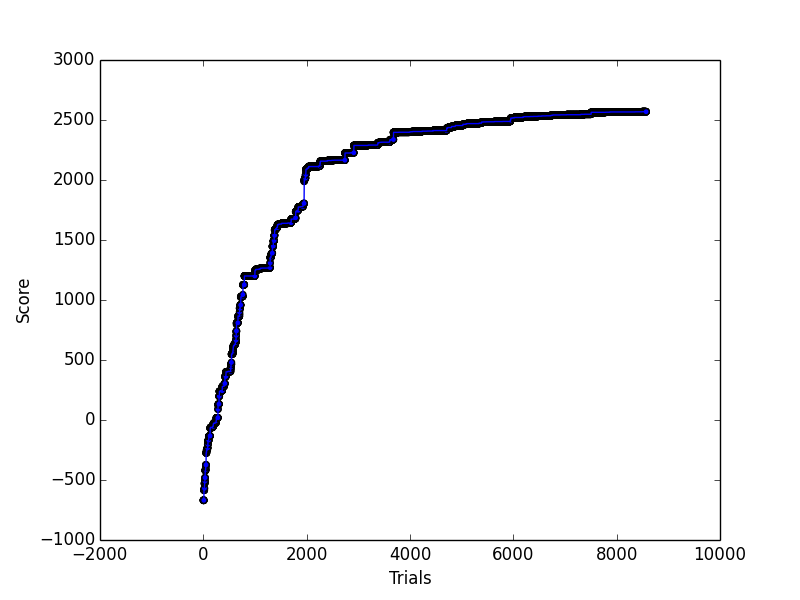
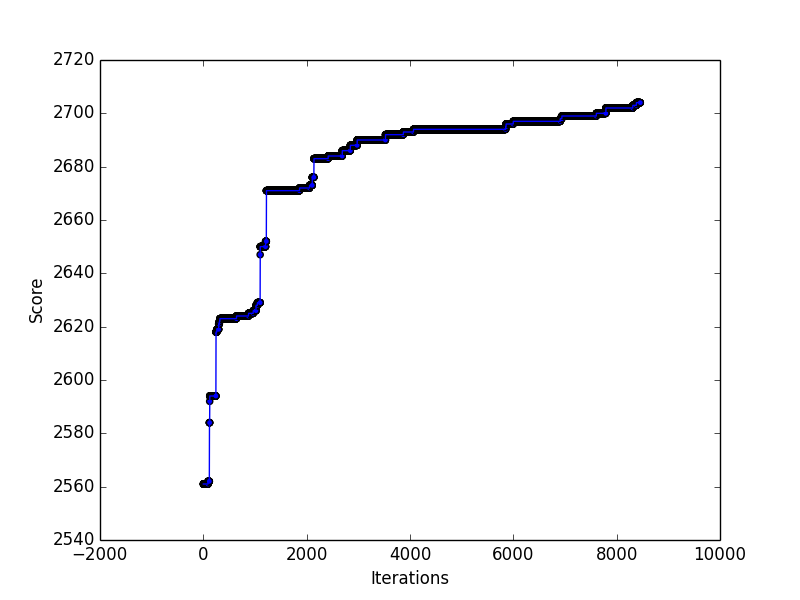
plottekes

diff --git a/poging2.py b/poging2.py
@@ -19,7 +19,8 @@ def hilclimbing():
     # sla het allereerste aantal punten van het rooster op.
     starting_score = scoringsfunctie(schedule,courses)
     # starting schedule is het rooster die we kunnen aanpassen.
-    starting_schedule = copy.deepcopy(schedule)
+    starting_schedule = {'B0.201': [['Zoeken sturen en bewegen practica 3', 'Technology for games werkgroep 2', 'Reflectie op de digitale cultuur werkgroep 1', 'Software engineering practica 2'], ['Webprogrammeren en databases hoorcollege 2', 'Heuristieken 2 hoorcollege 1', 'Data Mining practica 2', 'Data Mining practica 1'], ['Technology for games hoorcollege 2', 'Zoeken sturen en bewegen practica 1', 'Collectieve Intelligentie werkgroep 4', 'Bioinformatica practica 2'], ['Compilerbouw werkgroep 2', 'Data Mining hoorcollege 1', 'Bioinformatica hoorcollege 1', 'Databases 2 werkgroep 1'], ['Data Mining hoorcollege 2', 'Moderne Databases werkgroep 1', 'Algoritmen en complexiteit hoorcollege 1', 'Technology for games hoorcollege 1']], 'A1.08': [['Collectieve Intelligentie practica 1', 'Informatie- en organisatieontwerp practica 1', 'Collectieve Intelligentie practica 2', 'Informatie- en organisatieontwerp practica 2'], ['Technology for games werkgroep 1', 'Project Numerical Recipes practica 2', 'Programmeren in Java 2 practica 1', 'Project Genetic Algorithms practica 3'], ['Collectieve Intelligentie werkgroep 1', 'Reflectie op de digitale cultuur werkgroep 3', 'Moderne Databases practica 3', 'Webprogrammeren en databases practica 1'], ['Reflectie op de digitale cultuur werkgroep 2', 'Netwerken en systeembeveiliging practica 3', 'Informatie- en organisatieontwerp hoorcollege 1', 'Autonomous Agents 2 werkgroep 1'], ['Autonomous Agents 2 practica 2', 'Advanced Heuristics hoorcollege 1', 'Informatie- en organisatieontwerp werkgroep 1', 'Autonomous Agents 2 practica 3']], 'C0.110': [['Databases 2 hoorcollege 1', 'Bioinformatica hoorcollege 2', 'Algoritmen en complexiteit werkgroep 2', 'Data Mining werkgroep 1'], ['Compilerbouw hoorcollege 1', 'Zoeken sturen en bewegen practica 2', 'Collectieve Intelligentie hoorcollege 1', 'Calculus 2 hoorcollege 1'], ['Software engineering hoorcollege 1', 'Collectieve Intelligentie werkgroep 2', 'Kansrekenen 2 hoorcollege 1', 'Algoritmen en complexiteit practica 1'], ['Compilerbouw werkgroep 1', 'Collectieve Intelligentie hoorcollege 2', 'Lineaire Algebra hoorcollege 1', 'Kansrekenen 2 hoorcollege 2'], ['Compilerbouw hoorcollege 2', 'Collectieve Intelligentie hoorcollege 3', 'Webprogrammeren en databases werkgroep 1', 'Software engineering werkgroep 1']], 'A1.04': [['Machine Learning hoorcollege 1', 'Algoritmen en complexiteit werkgroep 1', 'Compilerbouw practica 2', 'Heuristieken 1 werkgroep 1'], ['Autonomous Agents 2 hoorcollege 2', 'Interactie-ontwerp hoorcollege 1', 'Project Genetic Algorithms practica 1', 'Netwerken en systeembeveiliging practica 2'], ['Netwerken en systeembeveiliging practica 4', 'Moderne Databases practica 1', 'Project Genetic Algorithms practica 2', 'Bioinformatica practica 1'], ['Webprogrammeren en databases hoorcollege 1', 'Autonomous Agents 2 werkgroep 3', 'Project Numerical Recipes practica 3', 'Databases 2 werkgroep 2'], ['Software engineering werkgroep 2', 'Webprogrammeren en databases werkgroep 2', 'Moderne Databases werkgroep 2', 'Calculus 2 werkgroep 3']], 'A1.06': [['Data Mining werkgroep 2', 'Webprogrammeren en databases practica 2', 'Data Mining werkgroep 3', 'Collectieve Intelligentie practica 3'], ['Netwerken en systeembeveiliging practica 1', 'Architectuur en computerorganisatie hoorcollege 2', 'Advanced Heuristics practica 2', 'Project Numerical Recipes practica 1'], ['Moderne Databases practica 2', 'Collectieve Intelligentie werkgroep 3', 'Programmeren in Java 2 practica 3', 'Programmeren in Java 2 practica 2'], ['', '', '', 'Autonomous Agents 2 werkgroep 2'], ['Moderne Databases werkgroep 3', 'Informatie- en organisatieontwerp werkgroep 2', 'Interactie-ontwerp hoorcollege 2', 'Architectuur en computerorganisatie hoorcollege 1']], 'C1.112': [['Software engineering practica 1', 'Reflectie op de digitale cultuur hoorcollege 2', 'Lineaire Algebra hoorcollege 2', 'Compilerbouw practica 1'], ['Advanced Heuristics practica 1', 'Bioinformatica werkgroep 3', '', 'Informatie- en organisatieontwerp hoorcollege 2'], ['', 'practicum_compilerbouw practica 1', '', 'Algoritmen en complexiteit practica 2'], ['Heuristieken 1 hoorcollege 1', 'Analysemethoden en -technieken hoorcollege 1', '', 'practicum_compilerbouw practica 2'], ['Autonomous Agents 2 practica 1', 'Heuristieken 2 werkgroep 1', 'Bioinformatica hoorcollege 3', 'Heuristieken 2 werkgroep 2']], 'A1.10': [['Heuristieken 1 werkgroep 2', 'Autonomous Agents 2 hoorcollege 1', 'Moderne Databases hoorcollege 1', 'Collectieve Intelligentie practica 4'], ['Data Mining practica 3', '', 'Bioinformatica werkgroep 1', 'Bioinformatica werkgroep 2'], ['Bioinformatica practica 3', 'Programmeren in Java 2 practica 4', 'practicum_compilerbouw practica 3', ''], ['', 'practicum_compilerbouw practica 4', 'Machine Learning hoorcollege 2', ''], ['Calculus 2 werkgroep 2', '', 'Reflectie op de digitale cultuur hoorcollege 1', 'Calculus 2 werkgroep 1']]}
+
     scoring_schedule = scoringsfunctie(starting_schedule, courses)
 
     lists = hoofd_main()
@@ -88,14 +89,14 @@ def hilclimbing():
                                     lijst_scores.append(high_score)
                                     amount_of_hiscores += 1
                                     #print amount_of_hiscores
-                                    if amount_of_hiscores == 1000:
-                                        #x = np.arange(0,len(lijst_scores),1)
-                                        #plt.scatter(x, lijst_scores)
-                                        #plt.plot(x,lijst_scores)
-                                        #xlabel('Trials')
-                                        #ylabel('Score')
-                                        #plt.savefig("hillclimbing2")
-
+                                    if amount_of_hiscores == 5000:
+                                        x = np.arange(0,len(lijst_scores),1)
+                                        plt.scatter(x, lijst_scores)
+                                        plt.plot(x,lijst_scores)
+                                        xlabel('Trials')
+                                        ylabel('Score')
+                                        plt.savefig("hillclimbing2")
+                                        print "highscore is", high_score
                                         return starting_score, high_score, starting_schedule
 
                         hour = hour + 1
@@ -105,14 +106,14 @@ def hilclimbing():
                 hour = 0
                 day = 0
 
-    #x = np.arange(0,len(lijst_scores),1)
+    x = np.arange(0,len(lijst_scores),1)
 
-    #plt.scatter(x, lijst_scores)
+    plt.scatter(x, lijst_scores)
 
-    #xlabel('Trials')
-    #ylabel('Score')
-    #plt.plot(x, lijst_scores)
-    #plt.savefig("hillclimbing2")
+    xlabel('Iterations')
+    ylabel('Score')
+    plt.plot(x, lijst_scores)
+    plt.savefig("hillclimbing2")
 
     return starting_score, high_score, starting_schedule
 

diff --git a/simulated_annealing.py b/simulated_annealing.py
@@ -5,6 +5,8 @@ from scoringsfunctie import *
 from random_algorithm import *
 from main import *
 from visualize import *
+from matplotlib.pyplot import plot, title, xlabel, ylabel, savefig
+
 
 import copy
 import random
@@ -20,11 +22,15 @@ classroom_name = lists[1]
 
 def simulated_annealing(starting_schedule, courses, classroom_name):
     print "starting Simulated annealing algorithm"
-    print "it may take around a hour till it's finished..."
+    print "it can take around an hour until it's finished..."
 
     # set initial temp
     temp = 1000
-    cooling_rate = 0.003
+
+    # probability 0.8
+    cooling_rate = 0.001
+
+    lijst_high_score = []
 
     high_score = scoringsfunctie(starting_schedule, courses)
     SA = True
@@ -57,7 +63,6 @@ def simulated_annealing(starting_schedule, courses, classroom_name):
             # else: swap back
             new_score = scoringsfunctie(new_schedule, courses)
             acceptance = math.exp((new_score - high_score) / temp)
-
             if SA:
 
                 temp *= 1 - cooling_rate
@@ -75,14 +80,20 @@ def simulated_annealing(starting_schedule, courses, classroom_name):
                     new_score = scoringsfunctie(starting_schedule, courses)
 
                 if steps > 5000:
+                    x = np.arange(0,len(lijst_high_score),1)
+                    plt.scatter(x,lijst_high_score)
+                    xlabel('Trials')
+                    ylabel('Score')
+                    plt.plot(x,lijst_high_score)
+                    plt.savefig('Simulated annealing')
+                    print "simulated annealing is done"
+                    print "best made schedule is:"
+                    print starting_schedule
+                    print "score of the schedule is: ", high_score
                     return [starting_schedule, high_score]
             if temp < 1:
                 SA = False
-
-    print "simulated annealing is done"
-    print "best made schedule is:"
-    print starting_schedule
-    print "score of the schedule is: ", high_score
+            lijst_high_score.append(high_score)
 
     #to visualize a schedule of a classroom of the random algorithm
     #Visualization('fill in classroom').fillSchedule(zaalrooster)
